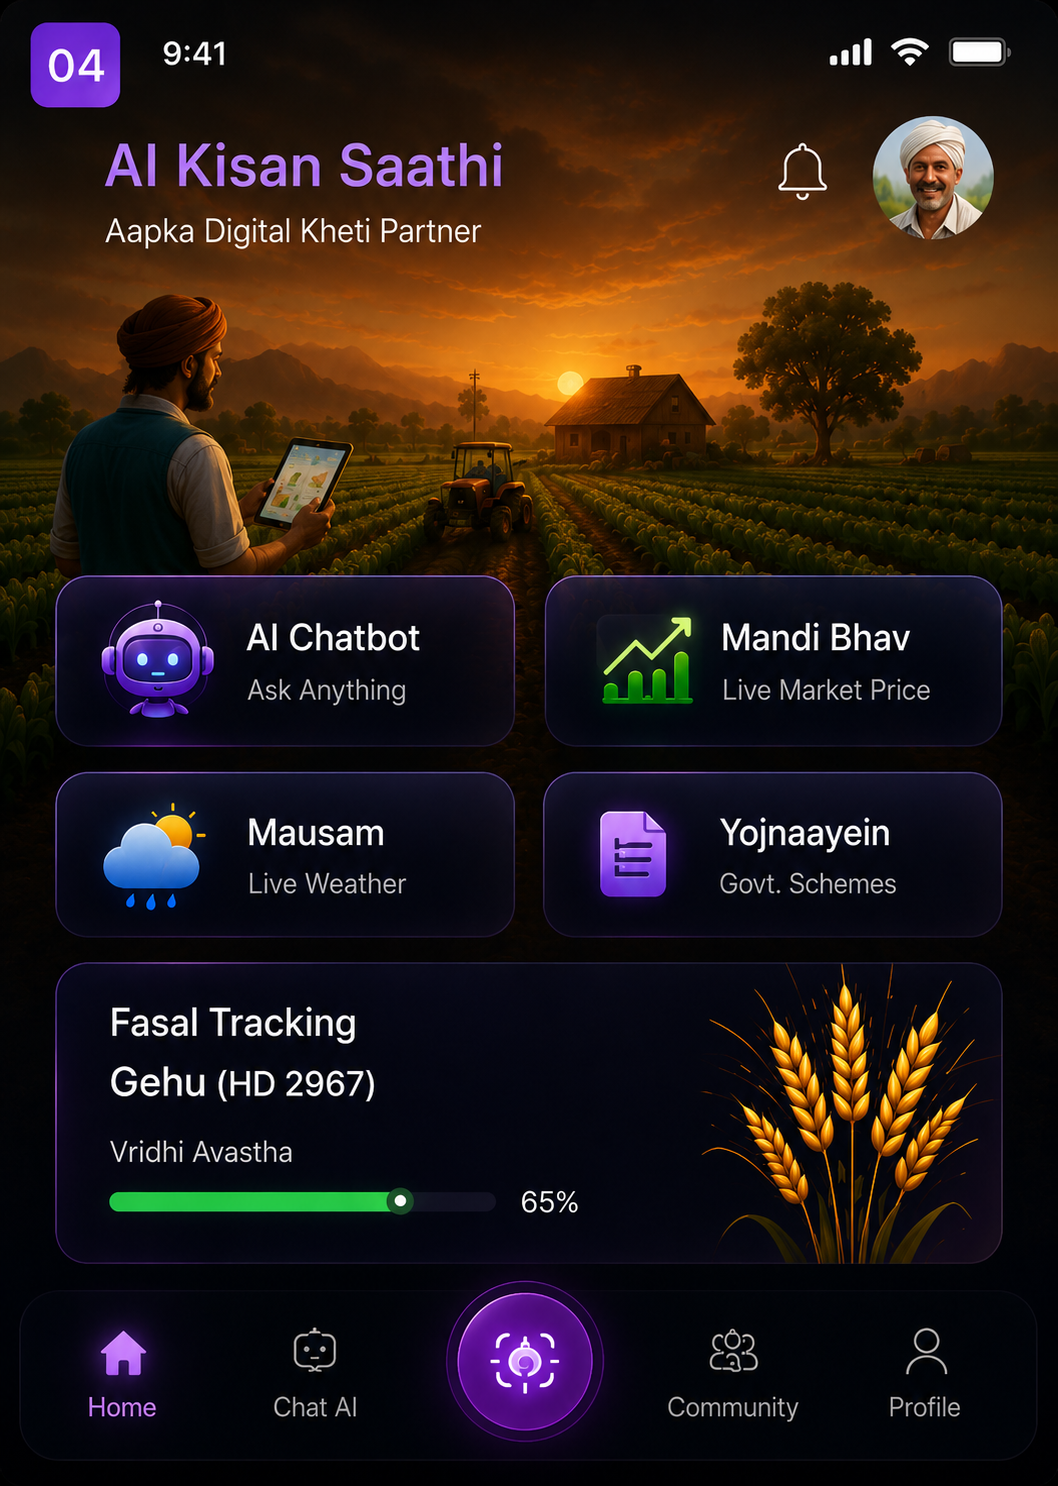
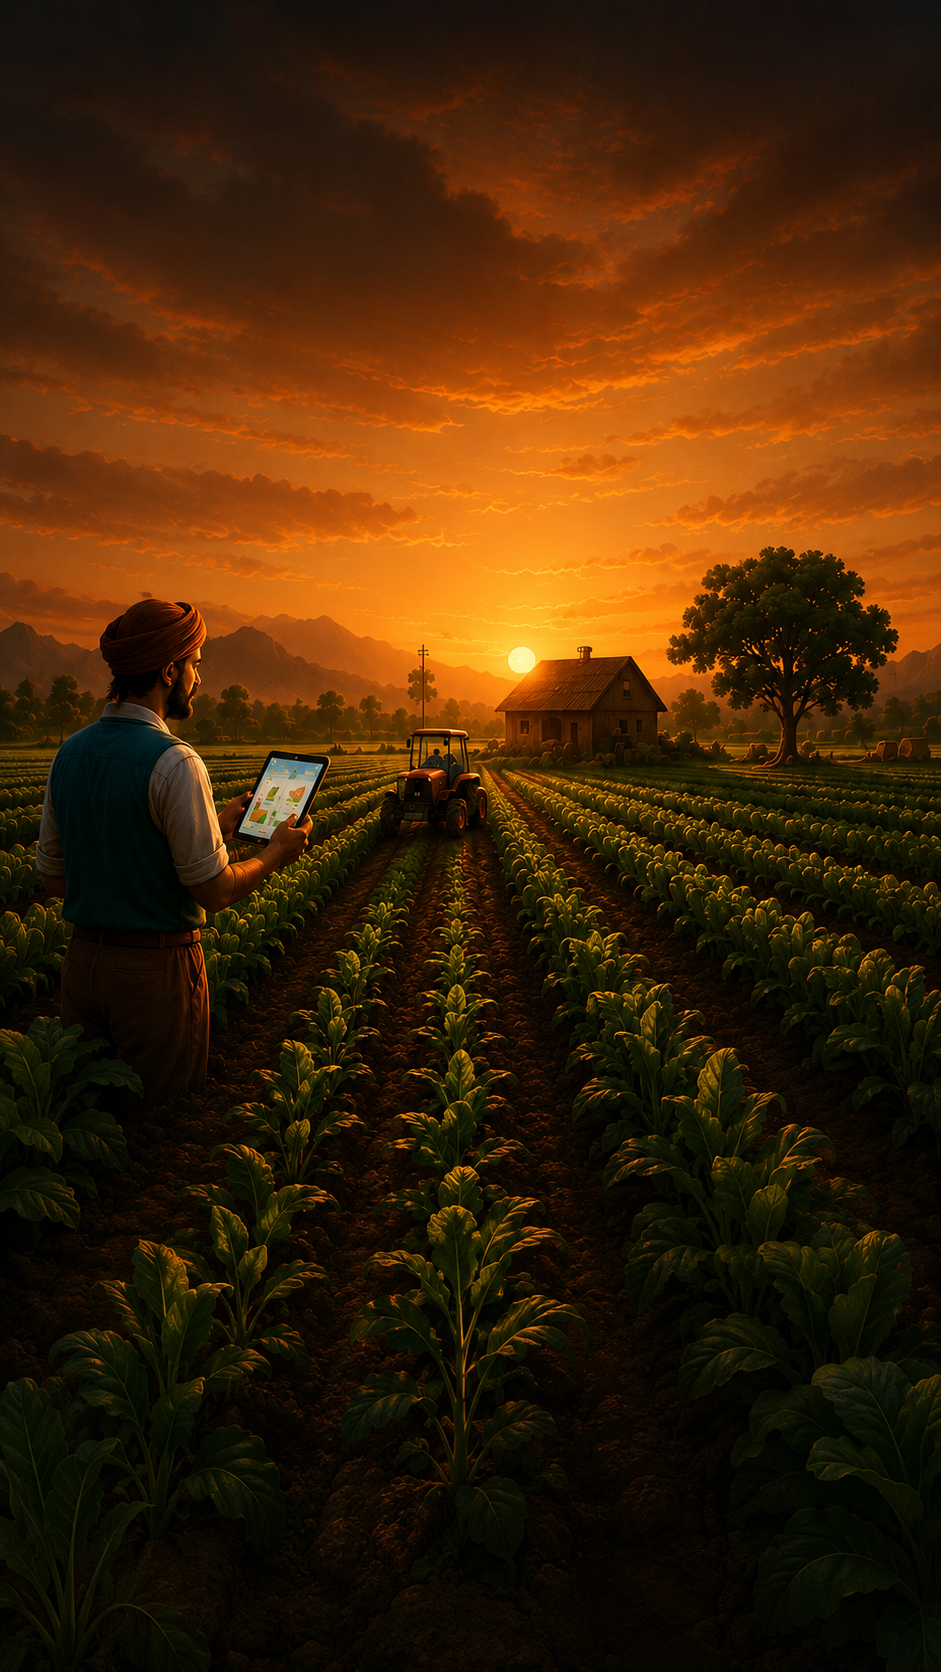
new home background added

diff --git a/src/components/HomePage.jsx b/src/components/HomePage.jsx
@@ -230,19 +230,25 @@ export default function HomePage({
           </motion.div>
         )}
 
-        {/* ===== Quiz + Community row ===== */}
-        <div style={{ margin: "0 16px 12px", display: "grid", gridTemplateColumns: "1fr 1fr", gap: 10 }}>
-          <motion.div style={{ ...C.gi, background: "rgba(255,215,0,0.08)", border: "1px solid rgba(255,215,0,0.2)", flexDirection: "column", alignItems: "flex-start", gap: 4 }}
-            whileTap={{ scale: 0.96 }} onClick={goQuiz} initial={{ opacity: 0 }} animate={{ opacity: 1 }} transition={{ delay: 0.35 }}>
-            <div style={{ fontSize: 18 }}>🎯</div>
-            <div style={{ fontSize: 11, color: "#fff", fontWeight: 700 }}>Aaj ka Quiz</div>
-            <div style={{ fontSize: 8.5, color: "#ffd966" }}>5 sawaal · 50 pts</div>
+        {/* ===== Quiz + Khata + Community row ===== */}
+        <div style={{ margin: "0 16px 12px", display: "grid", gridTemplateColumns: "1fr 1fr 1fr", gap: 8 }}>
+          <motion.div style={{ ...C.gi, background: "rgba(255,215,0,0.08)", border: "1px solid rgba(255,215,0,0.2)", flexDirection: "column", alignItems: "flex-start", gap: 3, padding: "11px 10px" }}
+            whileTap={{ scale: 0.96 }} onClick={goQuiz} initial={{ opacity: 0 }} animate={{ opacity: 1 }} transition={{ delay: 0.32 }}>
+            <div style={{ fontSize: 16 }}>🎯</div>
+            <div style={{ fontSize: 10, color: "#fff", fontWeight: 700 }}>Quiz</div>
+            <div style={{ fontSize: 7.5, color: "#ffd966" }}>50 pts</div>
           </motion.div>
-          <motion.div style={{ ...C.gi, background: "rgba(139,92,246,0.08)", border: "1px solid rgba(139,92,246,0.2)", flexDirection: "column", alignItems: "flex-start", gap: 4 }}
+          <motion.div style={{ ...C.gi, background: "rgba(120,220,180,0.08)", border: "1px solid rgba(120,220,180,0.2)", flexDirection: "column", alignItems: "flex-start", gap: 3, padding: "11px 10px" }}
+            whileTap={{ scale: 0.96 }} onClick={goKhata} initial={{ opacity: 0 }} animate={{ opacity: 1 }} transition={{ delay: 0.36 }}>
+            <div style={{ fontSize: 16 }}>📒</div>
+            <div style={{ fontSize: 10, color: "#fff", fontWeight: 700 }}>Khata</div>
+            <div style={{ fontSize: 7.5, color: "#7fd8a0" }}>Hisaab</div>
+          </motion.div>
+          <motion.div style={{ ...C.gi, background: "rgba(139,92,246,0.08)", border: "1px solid rgba(139,92,246,0.2)", flexDirection: "column", alignItems: "flex-start", gap: 3, padding: "11px 10px" }}
             whileTap={{ scale: 0.96 }} onClick={goCommunity} initial={{ opacity: 0 }} animate={{ opacity: 1 }} transition={{ delay: 0.4 }}>
-            <div style={{ fontSize: 18 }}>👥</div>
-            <div style={{ fontSize: 11, color: "#fff", fontWeight: 700 }}>Samuday</div>
-            <div style={{ fontSize: 8.5, color: "#c9a1ff" }}>Kisano se judo</div>
+            <div style={{ fontSize: 16 }}>👥</div>
+            <div style={{ fontSize: 10, color: "#fff", fontWeight: 700 }}>Samuday</div>
+            <div style={{ fontSize: 7.5, color: "#c9a1ff" }}>Judo</div>
           </motion.div>
         </div>
 

diff --git a/public/index.html b/public/index.html
@@ -4,6 +4,7 @@
     <meta charset="utf-8" />
     <link rel="icon" href="%PUBLIC_URL%/favicon.ico" />
     <meta name="viewport" content="width=device-width, initial-scale=1" />
+    <link href="https://fonts.googleapis.com/css2?family=Space+Grotesk:wght@600;700&display=swap" rel="stylesheet">
     <meta name="theme-color" content="#000000" />
     <meta
       name="description"